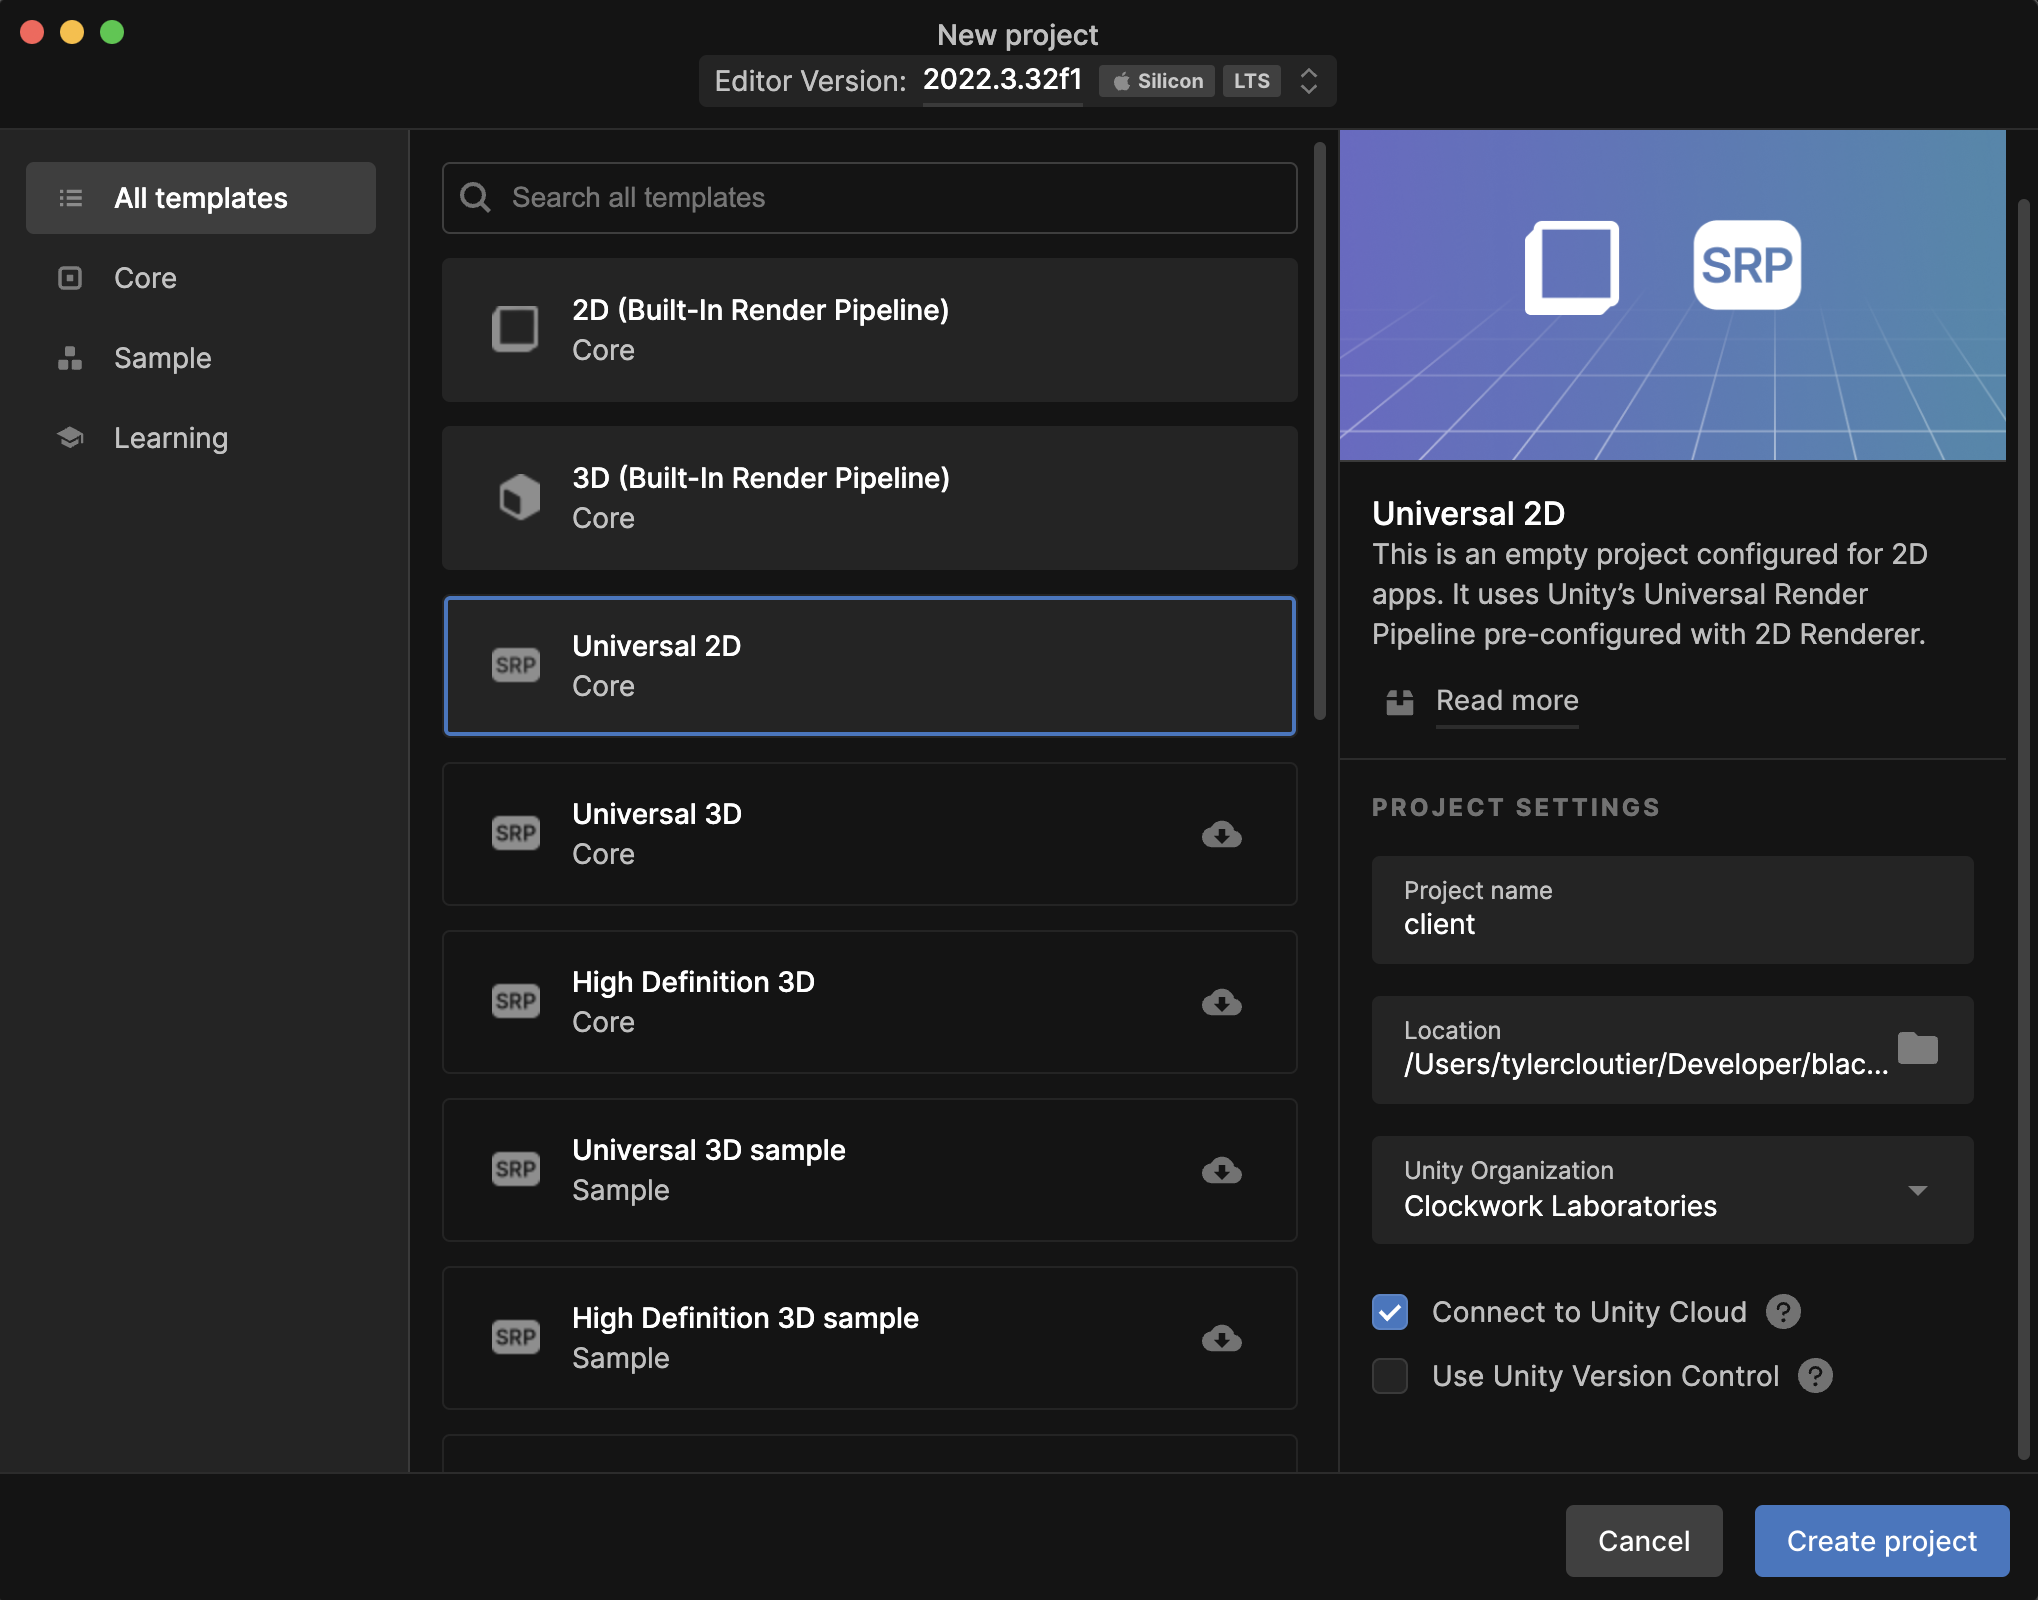
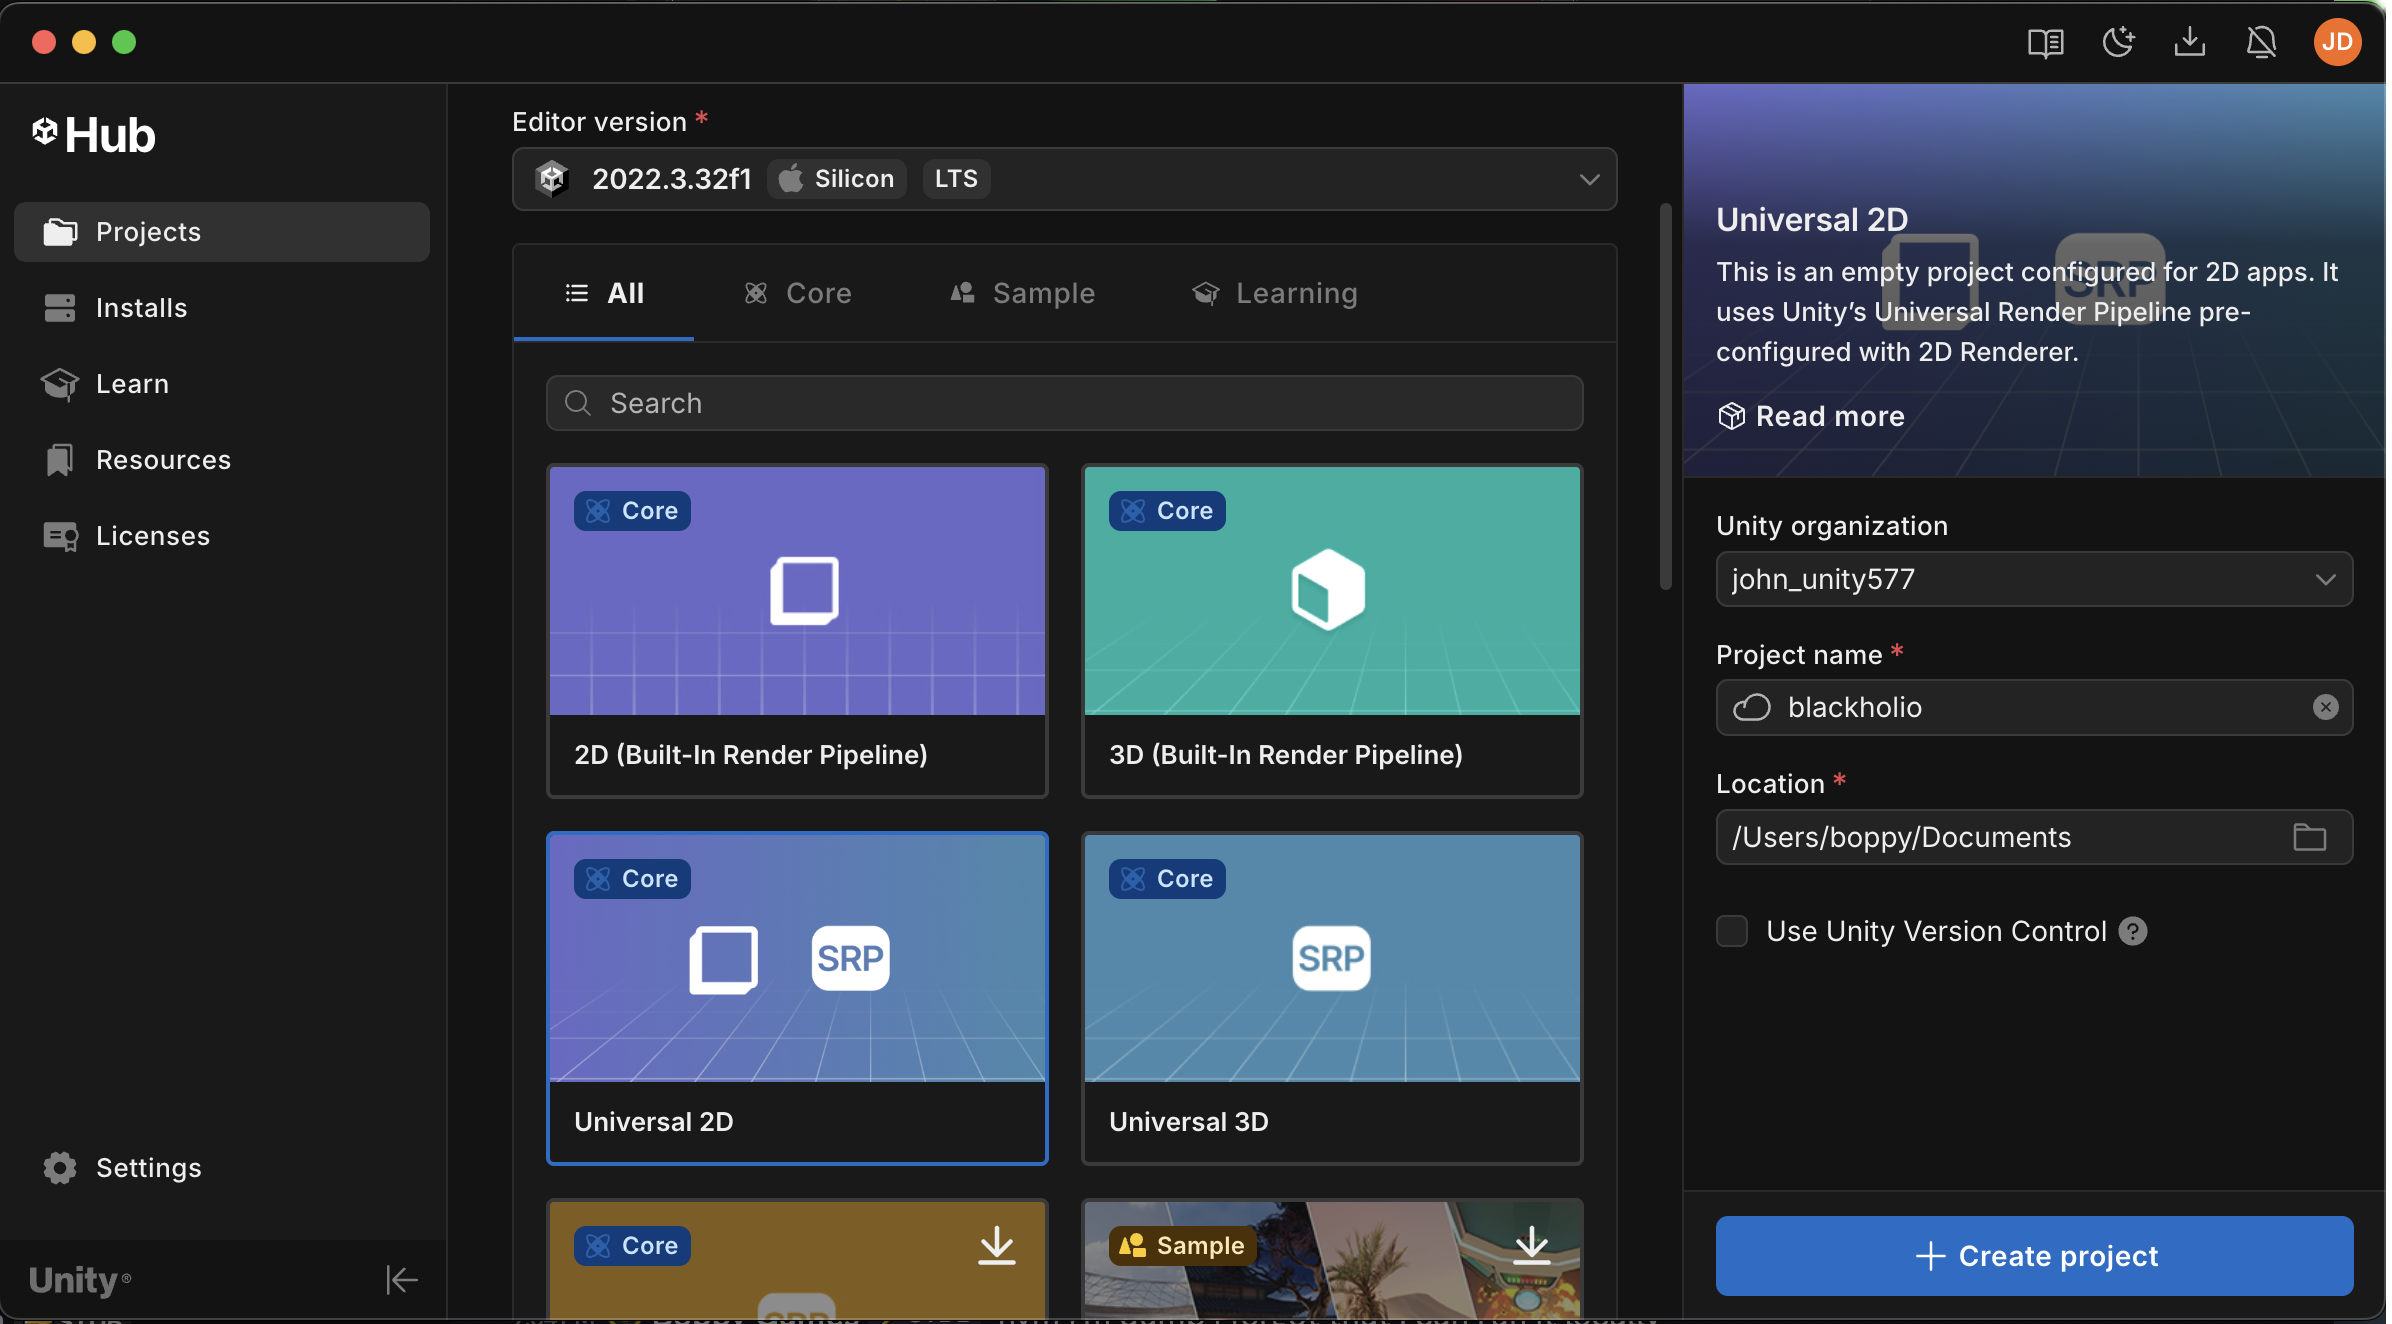
Initial pass on updating the docs for the new `spacetime init` functionality

diff --git a/docs/docs/03-Unity Tutorial/03-part-2.md b/docs/docs/03-Unity Tutorial/03-part-2.md
@@ -12,18 +12,36 @@ Need help with the tutorial? [Join our Discord server](https://discord.gg/spacet
 
 This progressive tutorial is continued from [part 1](/unity/part-1).
 
+## Project Structure
+
+Now that we have our client project setup we can configure the module directory. Regardless of what language you choose, your module will always go into a `spacetimedb` directory within your client directory like this:
+
+```
+blackholio                      # This is the directory for your Unity project
+├── Assembly-CSharp.csproj
+├── Assets/
+├── Library/
+├── ...                         # rest of the Unity files
+└── spacetimedb/                # This is where your server modules live
+```
+
+
 ## Create a Server Module
 
 If you have not already installed the `spacetime` CLI, check out our [Getting Started](/getting-started) guide for instructions on how to install.
 
-In your `blackholio` directory, run the following command to initialize the SpacetimeDB server module project with your desired language:
+In the same directory as your `blackholio` directory, run the following command to initialize the SpacetimeDB server module project with your desired language:
+
+:::warning
+The `blackholio` directory specified here is the same `blackholio` directory you created during part 1.
+:::
 
 <Tabs groupId="server-language" defaultValue="rust">
 <TabItem value="rust" label="Rust">
 Run the following command to initialize the SpacetimeDB server module project with Rust as the language:
 
 ```bash
-spacetime init --lang rust server-rust
+spacetime init --lang rust --server-only blackholio
 ```
 
 This command creates a new folder named `server-rust` alongside your Unity project `client-unity` directory and sets up the SpacetimeDB server project with Rust as the programming language.
@@ -33,10 +51,10 @@ This command creates a new folder named `server-rust` alongside your Unity proje
 Run the following command to initialize the SpacetimeDB server module project with C# as the language:
 
 ```bash
-spacetime init --lang csharp server-csharp
+spacetime init --lang csharp --server-only blackholio
 ```
 
-This command creates a new folder named `server-csharp` alongside your Unity project `client-unity` directory and sets up the SpacetimeDB server project with C# as the programming language.
+This command creates a new folder named `spacetimedb` inside of your Unity project `blackholio` directory and sets up the SpacetimeDB server project with C# as the programming language.
 
 </TabItem>
 </Tabs>
@@ -45,15 +63,15 @@ This command creates a new folder named `server-csharp` alongside your Unity pro
 
 <Tabs groupId="server-language" defaultValue="rust">
 <TabItem value="rust" label="Rust">
-In this section we'll be making some edits to the file `server-rust/src/lib.rs`. We recommend you open up this file in an IDE like VSCode or RustRover.
+In this section we'll be making some edits to the file `blackholio/spacetimedb/src/lib.rs`. We recommend you open up this file in an IDE like VSCode or RustRover.
 
-**Important: Open the `server-rust/src/lib.rs` file and delete its contents. We will be writing it from scratch here.**
+**Important: Open the `blackholio/spacetimedb/src/lib.rs` file and delete its contents. We will be writing it from scratch here.**
 
 </TabItem>
 <TabItem value="csharp" label="C#">
-In this section we'll be making some edits to the file `server-csharp/Lib.cs`. We recommend you open up this file in an IDE like VSCode or Rider.
+In this section we'll be making some edits to the file `blackholio/spacetimedb/Lib.cs`. We recommend you open up this file in an IDE like VSCode or Rider.
 
-**Important: Open the `server-csharp/Lib.cs` file and delete its contents. We will be writing it from scratch here.**
+**Important: Open the `blackholio/spacetimedb/Lib.cs` file and delete its contents. We will be writing it from scratch here.**
 
 </TabItem>
 </Tabs>
@@ -373,12 +391,12 @@ Starting SpacetimeDB listening on 127.0.0.1:3000
   <TabItem value="rust" label="Rust">
     Now that SpacetimeDB is running we can publish our module to the SpacetimeDB
     host. In a separate terminal window, navigate to the
-    `blackholio/server-rust` directory.
+    `blackholio/spacetimedb` directory.
   </TabItem>
   <TabItem value="csharp" label="C#">
     Now that SpacetimeDB is running we can publish our module to the SpacetimeDB
     host. In a separate terminal window, navigate to the
-    `blackholio/server-csharp` directory.
+    `blackholio/spacetimedb` directory.
   </TabItem>
 </Tabs>
 
@@ -494,7 +512,7 @@ The `spacetime` CLI has built in functionality to let us generate C# types that 
     directory run the following command:
   </TabItem>
   <TabItem value="csharp" label="C#">
-    Let's generate our types for our module. In the `blackholio/server-csharp`
+    Let's generate our types for our module. In the `blackholio/spacetimedb`
     directory run the following command:
   </TabItem>
 </Tabs>

diff --git a/docs/docs/03-Unity Tutorial/02-part-1.md b/docs/docs/03-Unity Tutorial/02-part-1.md
@@ -11,22 +11,6 @@ Need help with the tutorial? [Join our Discord server](https://discord.gg/spacet
 >
 > [https://github.com/clockworklabs/SpacetimeDB/tree/master/demo/Blackholio](https://github.com/clockworklabs/SpacetimeDB/tree/master/demo/Blackholio)
 
-## Prepare Project Structure
-
-This project is separated into two subdirectories;
-
-1. Server (module) code
-2. Client code
-
-First, we'll create a project root directory (you can choose the name):
-
-```bash
-mkdir blackholio
-cd blackholio
-```
-
-We'll start by populating the client directory.
-
 ## Setting up the Tutorial Unity Project
 
 In this section, we will guide you through the process of setting up a Unity Project that will serve as the starting point for our tutorial. By the end of this section, you will have a basic Unity project and be ready to implement the server functionality.
@@ -45,7 +29,7 @@ Open Unity and create a new project by selecting "New" from the Unity Hub or goi
 
 :::
 
-For `Project Name` use `client-unity`. For Project Location make sure that you use your `blackholio` directory. This is the directory that we created in a previous step.
+For `Project Name` use `blackholio`. For `Project Location` select a directory that you can navigate to via the CLI because we will need to do so in the next step.
 
 ![Universal 2D Template](/images/unity/part-1-universal-2d-template.png)
 
